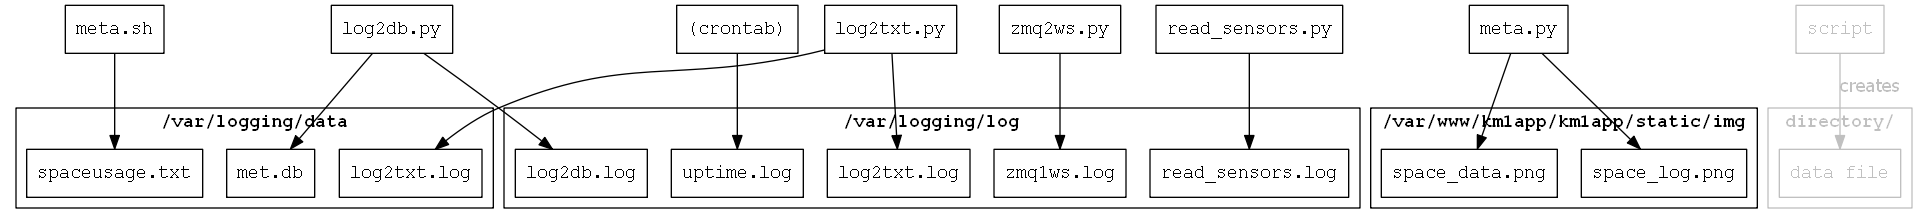
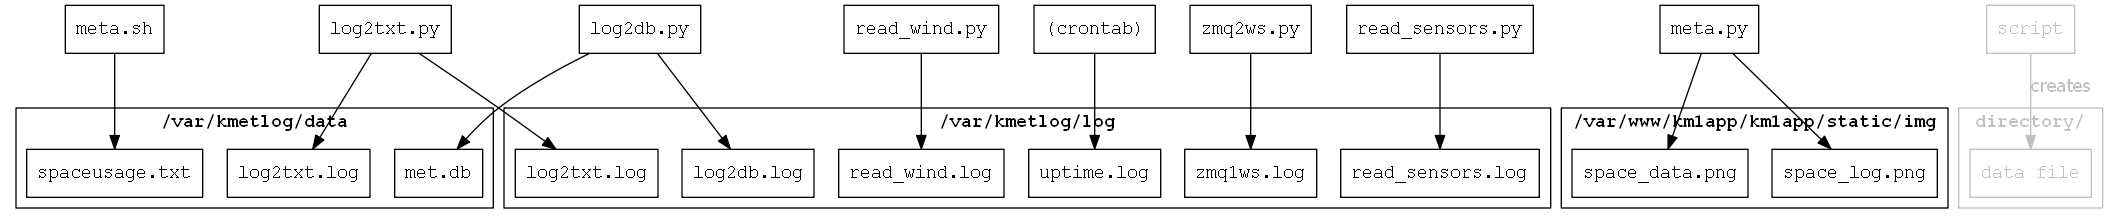
.

diff --git a/km1app/f1.py b/km1app/f1.py
@@ -8,7 +8,7 @@ from json import dumps
 
 import sys,traceback,logging
 sys.path.append(r'/home/otg/kmetlog')
-import db_configuration as dbconfig
+from dbstuff import get_list_of_tables,get_list_of_columns
 
 
 logging.basicConfig(level=logging.DEBUG)
@@ -20,7 +20,7 @@ def route_index():
 
 @app.route('/by_sensor/<sensor>/')
 def by_sensor(sensor):
-    if sensor in dbconfig.get_list_of_sensors():
+    if sensor in get_list_of_tables():
         try:
             return render_template(sensor + '.html')
         except:
@@ -39,13 +39,13 @@ def by_variable(variable):
 
 @app.route('/data/1/<sensor>.json')
 def data1(sensor):
-    if sensor in dbconfig.get_list_of_sensors():
+    if sensor in get_list_of_tables():
         try:
             begin = request.args.get('begin')
             end = request.args.get('end')
             col_list = ['ts']
             #col_list.extend(schema[sensor])
-            col_list.extend(dbconfig.get_list_of_variables(sensor))
+            col_list.extend(get_list_of_columns(sensor))
             r = read_time_range(sensor,col_list,begin,end)
             return dumps(r,separators=(',',':'))
         except:

diff --git a/km1app/query_data.py b/km1app/query_data.py
@@ -23,7 +23,7 @@ logging.basicConfig()
 #    return datetime.utcfromtimestamp(ts)
 
 
-dbfile = '/var/logging/data/met.db'
+dbfile = '/var/kmetlog/data/met.db'
 assert exists(dbfile)
 
 # database stuff
